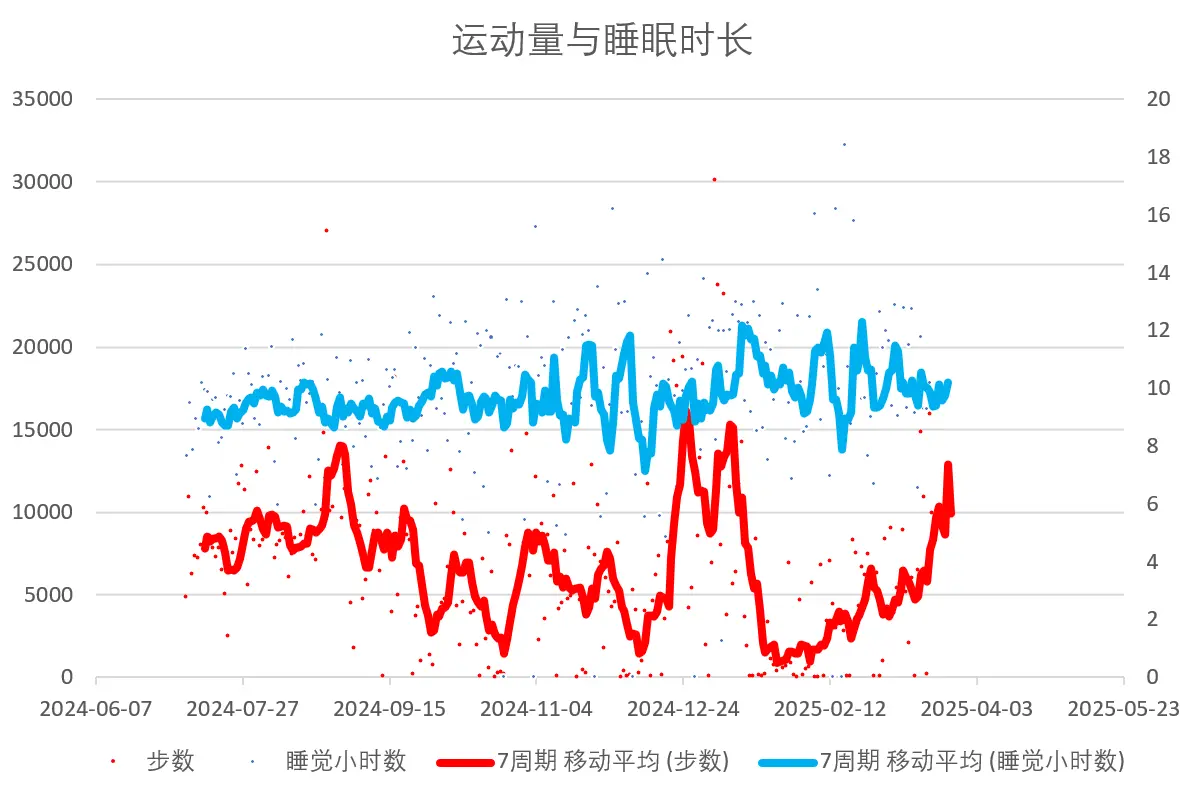
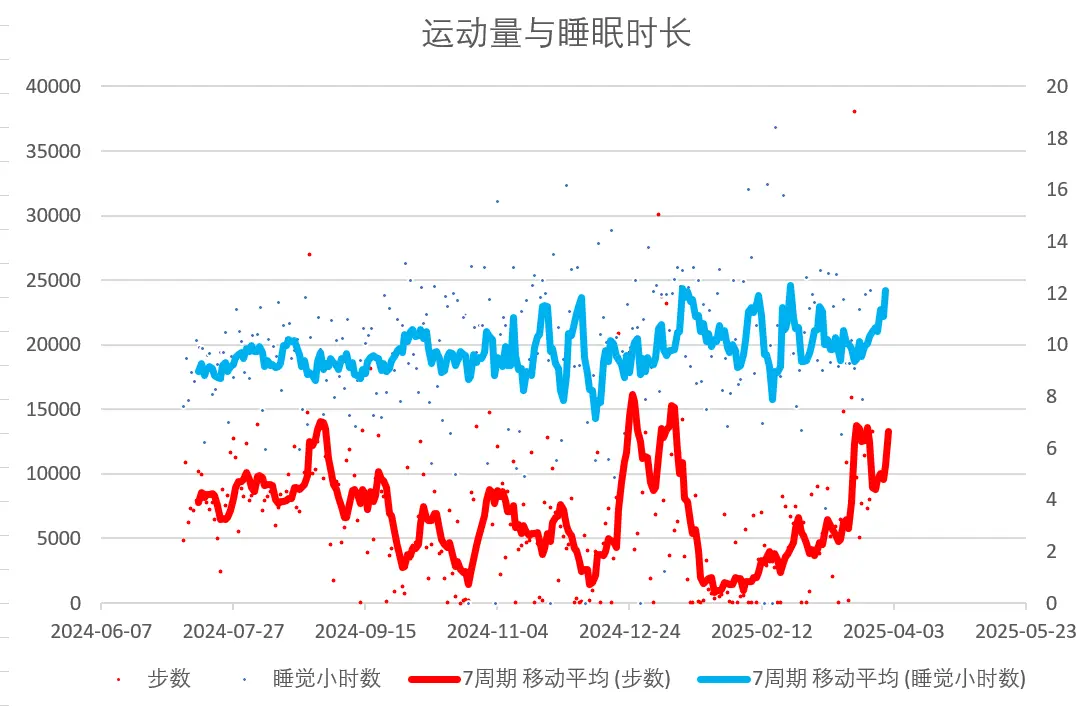
20250330

diff --git a/source/_posts/牢骚系列/抽奖-累积话费-3G违约-京译精选的套路方式.md b/source/_posts/牢骚系列/抽奖-累积话费-3G违约-京译精选的套路方式.md
@@ -37,6 +37,6 @@ permalink: jing-yi-jing-xuan.html
 
 我从一开始就注意到了事情的所有细节。就像上一次确凿受骗一样，上次是被骗了 200 现金当路费，用一个手表交换，对方报的手机号是 13x55667788，这正常人都会怀疑的，但是出于一种助人的情节我还是相信他的。这次没有走，首先是自己贪图小利，其次是对方说的一句话：“你已经是成年人了，合约签了就不能取消”。
 
-在百度贴吧上搜到了一个[一模一样的案例](https://tieba.baidu.com/p/8997885141)。我把帖子截图发给对方，并要求退款，次日上午到店退款并还款成功，并签了退款协议，一式两份。
+在百度贴吧上搜到了一个[一模一样的案例](https://tieba.baidu.com/p/8997885141)。我把帖子截图发给对方，并要求退款，次日上午到店退款并还款成功，并签了退款协议，一式两份。这相当于我这辈子干的第一件硬气的事。
 
 <img src="/blog/images/wsyhlrxtq.webp">

diff --git a/source/_posts/牢骚系列/旧事汇总处.md b/source/_posts/牢骚系列/旧事汇总处.md
@@ -8,7 +8,9 @@ mathjax: true
 
 <img src="/blog/images/weekly/weekly.webp">
 
-虽然在过去的半年里有几次是一夜没睡倒时差的，但是连续两天不睡觉是绝对不可能的，平均下来看还是不极端的。预计在 3 月结束的时候步数回弹到 5000 以上。
+移动平均的特点是：即使你有一天走了 35000 步，但你如果在这之后的几天一步都不走的话，那么它会被拉低。在这幅图里，最右边的端点是尚未被之后的几天平均的。
+
+为什么有时候早上还是起不来：还是出于一种逃避现实的心理，因为心里有事，有一些不太好的事情。但是最近的晚上都能睡着，比以前都进步了。
 
 <!--more-->
 
